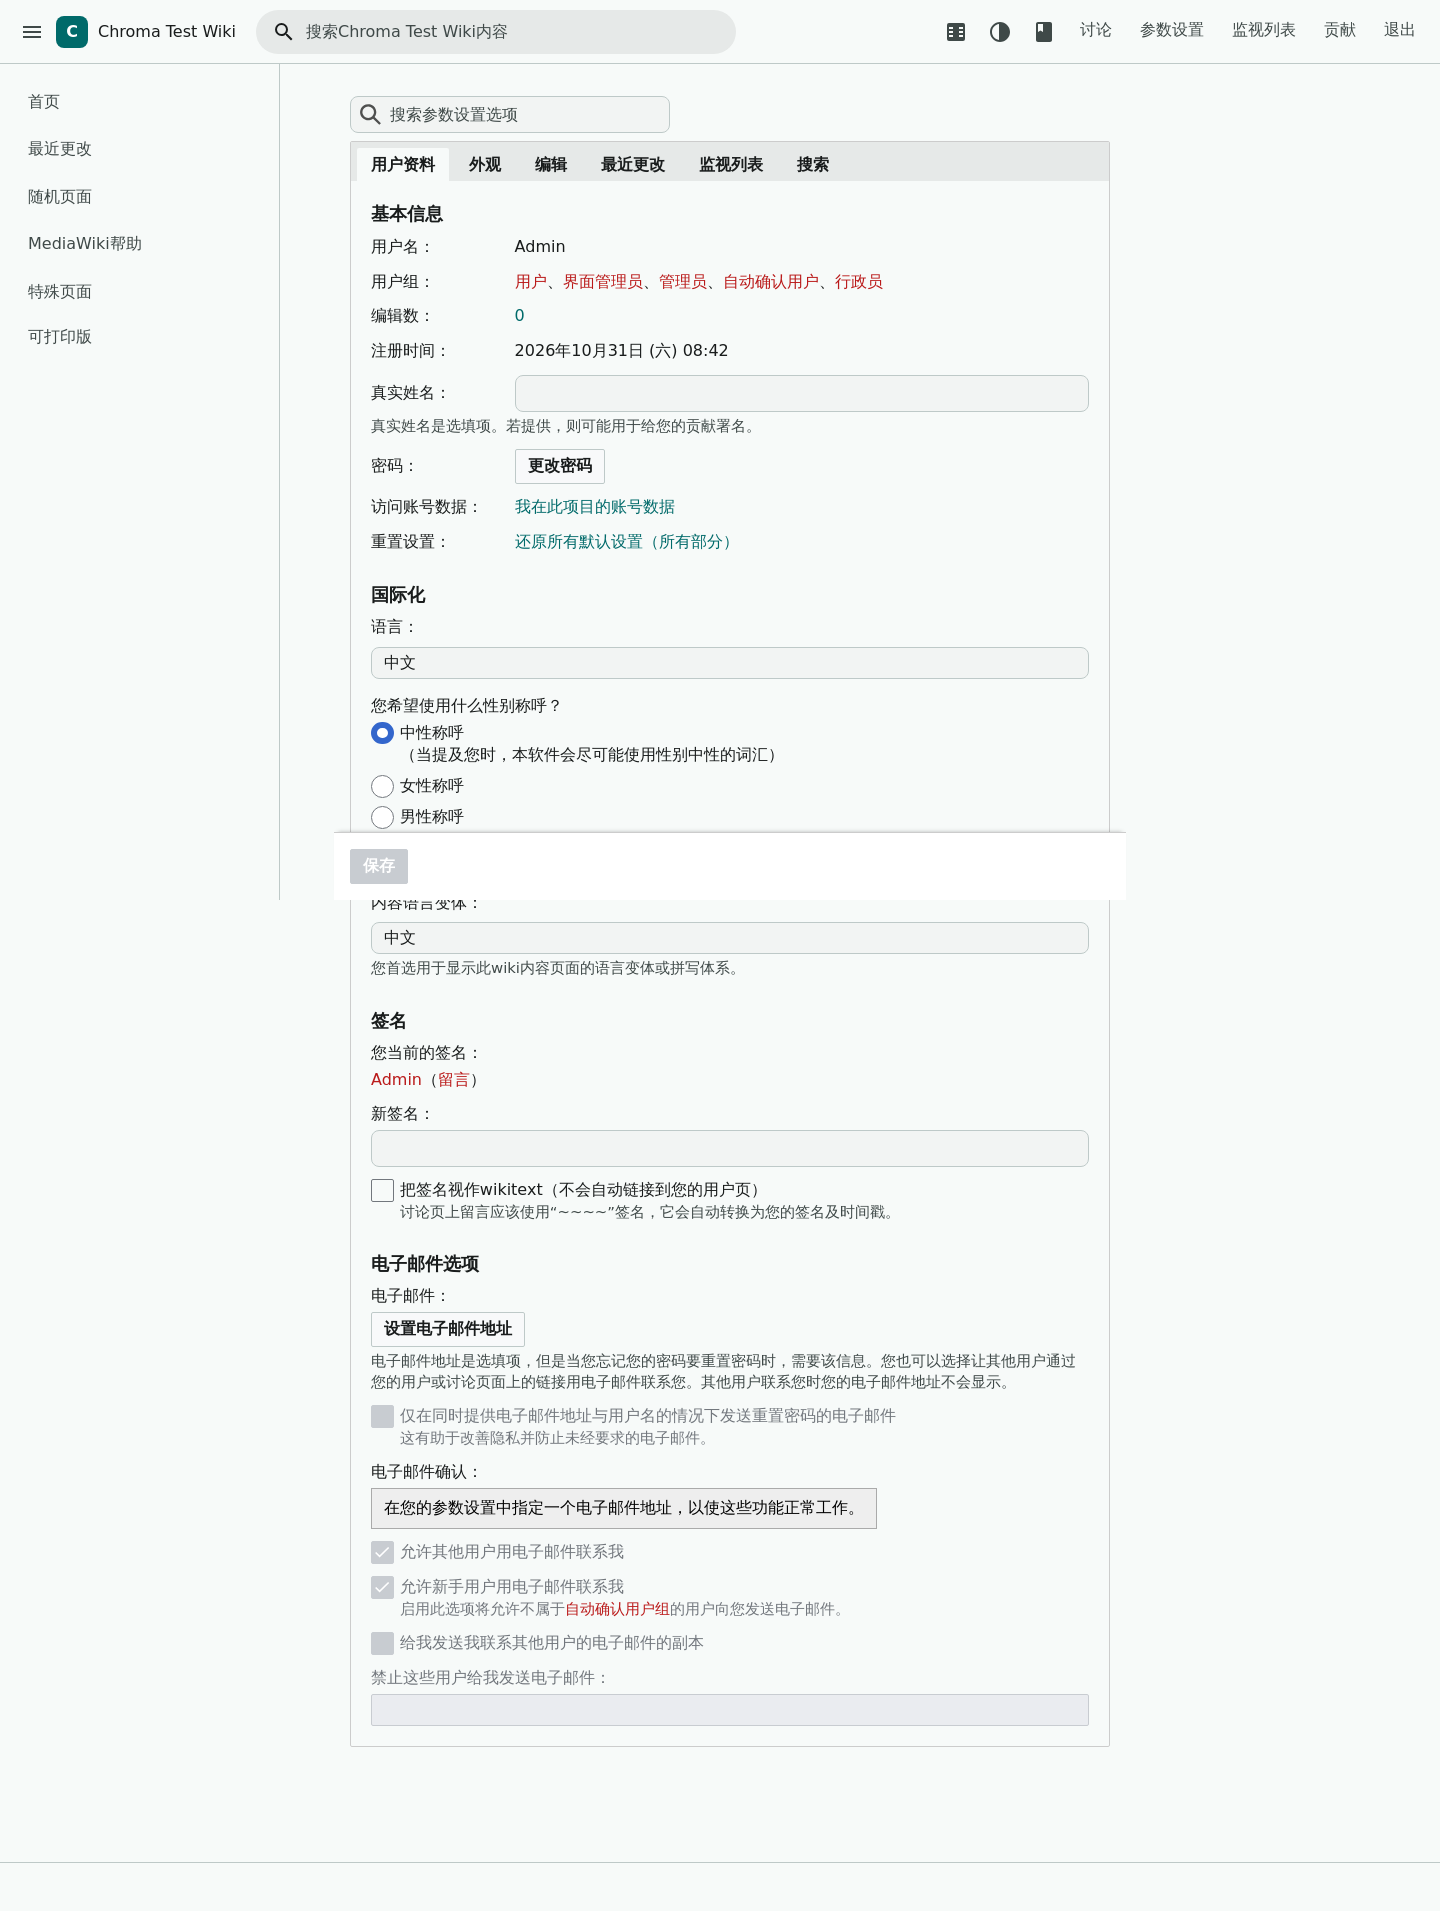
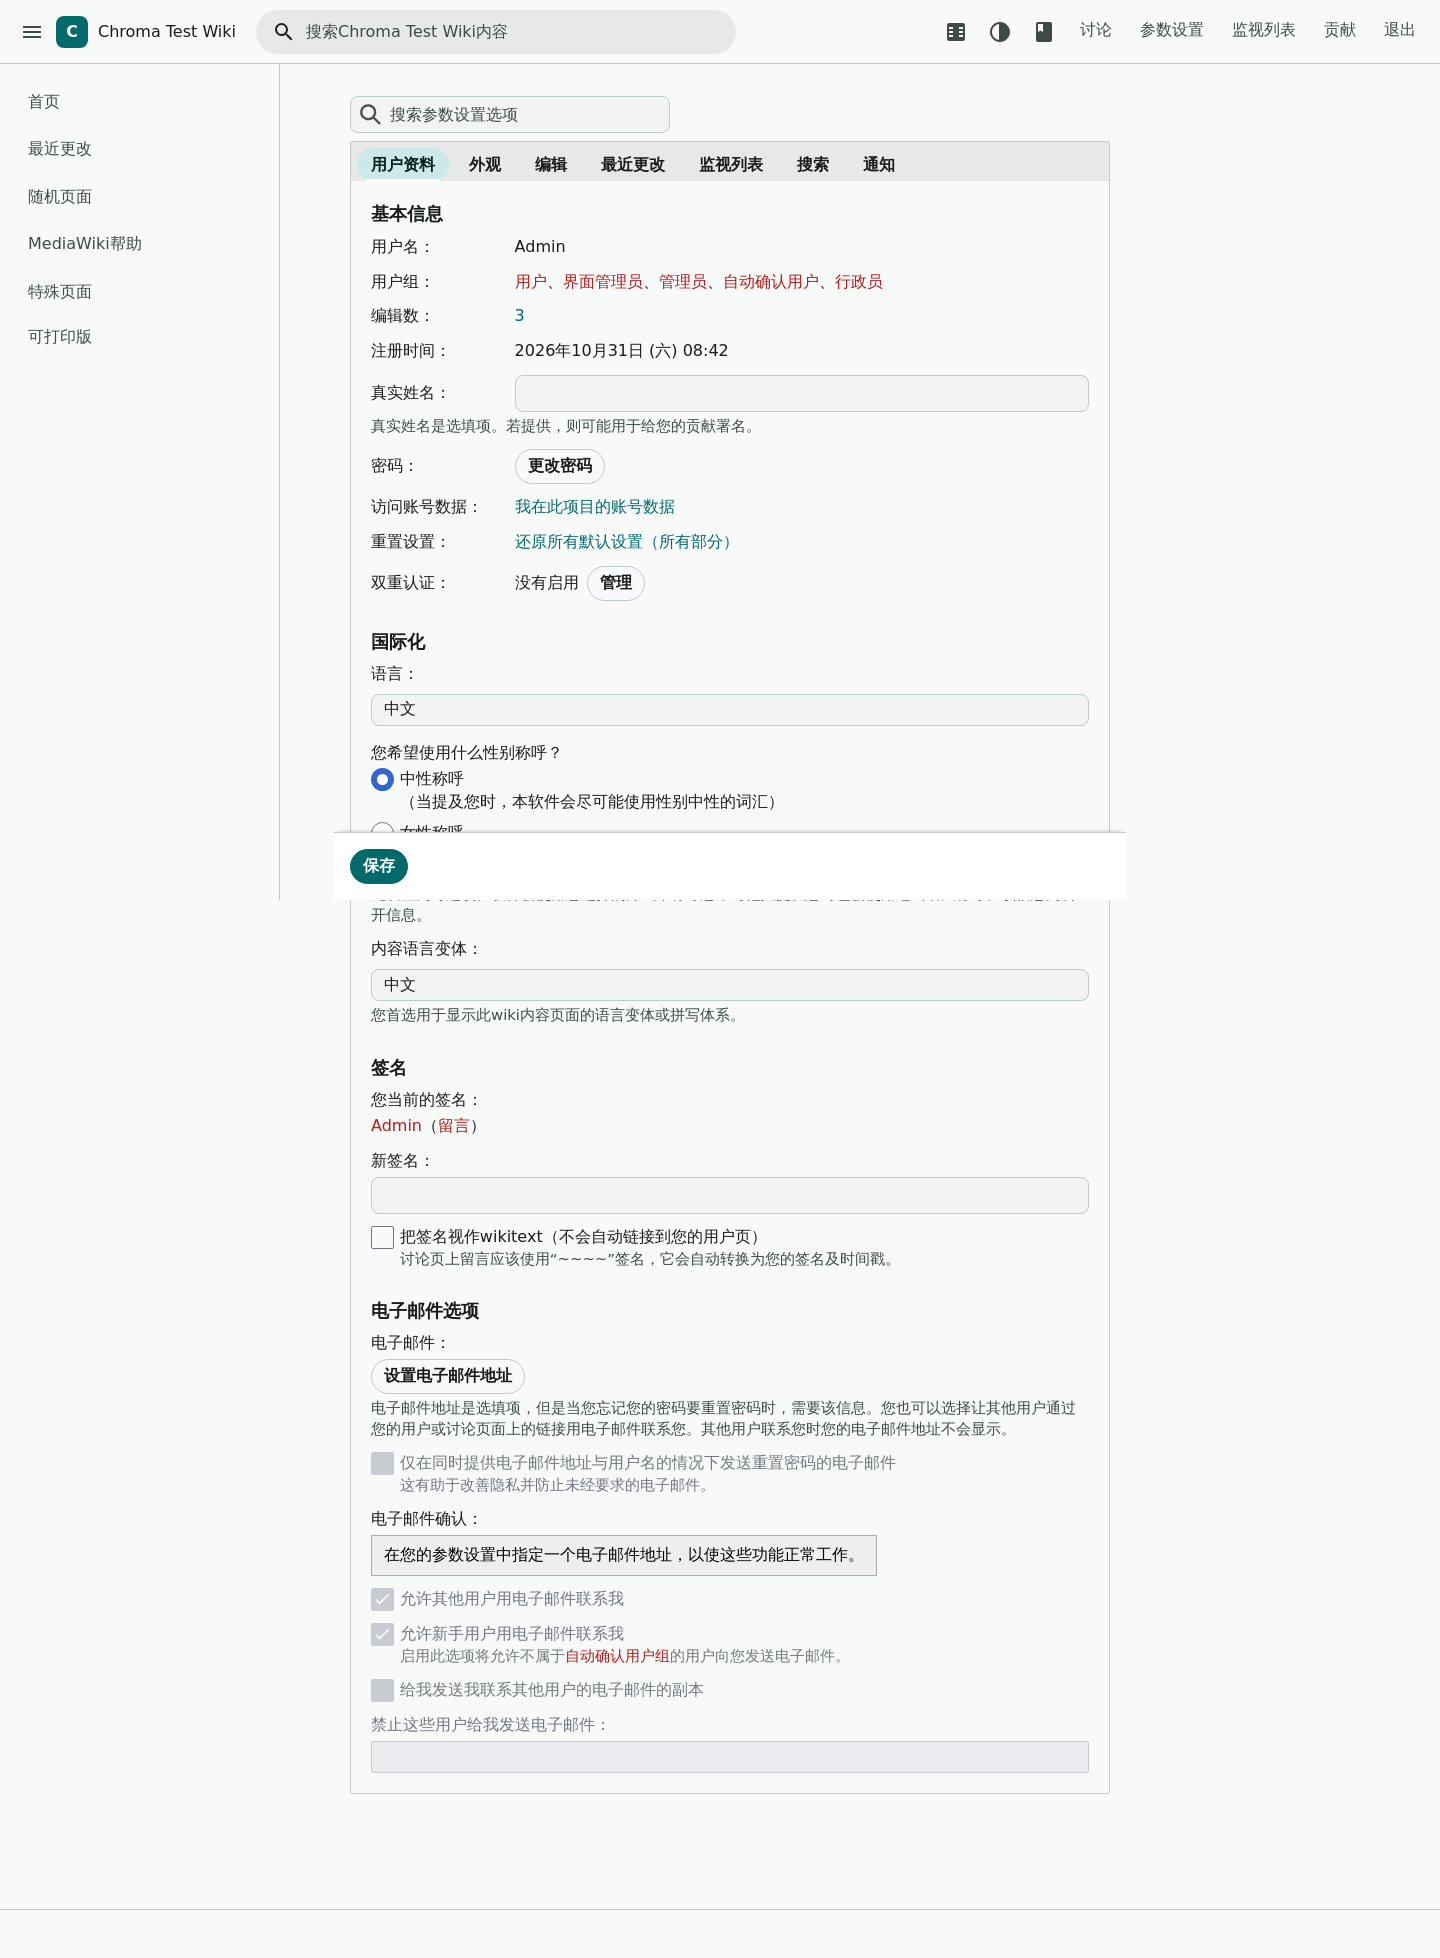
feat: OOUI theming on REL1_43

diff --git a/resources/styles/extensions.css b/resources/styles/extensions.css
@@ -126,3 +126,39 @@ sup.reference a { color: var(--md-sys-color-primary); }
 
 /* ---------- ConfirmEdit ---------- */
 .mw-confirmedit-captcha { border-radius: var(--md-sys-shape-corner-medium); }
+
+/* ---------- OOUI fallback theming (higher specificity) ---------- */
+.oo-ui-tabOptionWidget.oo-ui-optionWidget-selected {
+	background: var(--md-sys-color-secondary-container) !important;
+	color: var(--md-sys-color-on-secondary-container) !important;
+	border-radius: var(--md-sys-shape-corner-full) !important;
+}
+.oo-ui-tabOptionWidget.oo-ui-optionWidget-selected .oo-ui-labelElement-label { color: inherit !important; }
+.oo-ui-tabSelectWidget-framed .oo-ui-tabOptionWidget { border-color: transparent !important; }
+.mw-prefs-tabs .oo-ui-menuLayout-menu { background: var(--md-sys-color-surface-container) !important; border-radius: var(--md-sys-shape-corner-medium) !important; }
+.oo-ui-inputWidget-input {
+	background: var(--md-sys-color-surface-container-low) !important;
+	color: var(--md-sys-color-on-surface) !important;
+	border-color: var(--md-sys-color-outline-variant) !important;
+	border-radius: var(--md-sys-shape-corner-small) !important;
+}
+.oo-ui-dropdownWidget-handle {
+	background: var(--md-sys-color-surface-container-low) !important;
+	color: var(--md-sys-color-on-surface) !important;
+	border-color: var(--md-sys-color-outline-variant) !important;
+	border-radius: var(--md-sys-shape-corner-small) !important;
+}
+.oo-ui-buttonElement-framed.oo-ui-flaggedElement-primary > .oo-ui-buttonElement-button {
+	background: var(--md-sys-color-primary) !important;
+	border-color: var(--md-sys-color-primary) !important;
+	color: var(--md-sys-color-on-primary) !important;
+	border-radius: var(--md-sys-shape-corner-full) !important;
+}
+.oo-ui-buttonElement-framed > .oo-ui-buttonElement-button {
+	border-radius: var(--md-sys-shape-corner-full) !important;
+}
+.oo-ui-menuSelectWidget, .oo-ui-popupWidget-popup, .oo-ui-dropdownWidget-menu {
+	background: var(--md-sys-color-surface-container) !important;
+	color: var(--md-sys-color-on-surface) !important;
+	border-radius: var(--md-sys-shape-corner-medium) !important;
+}
